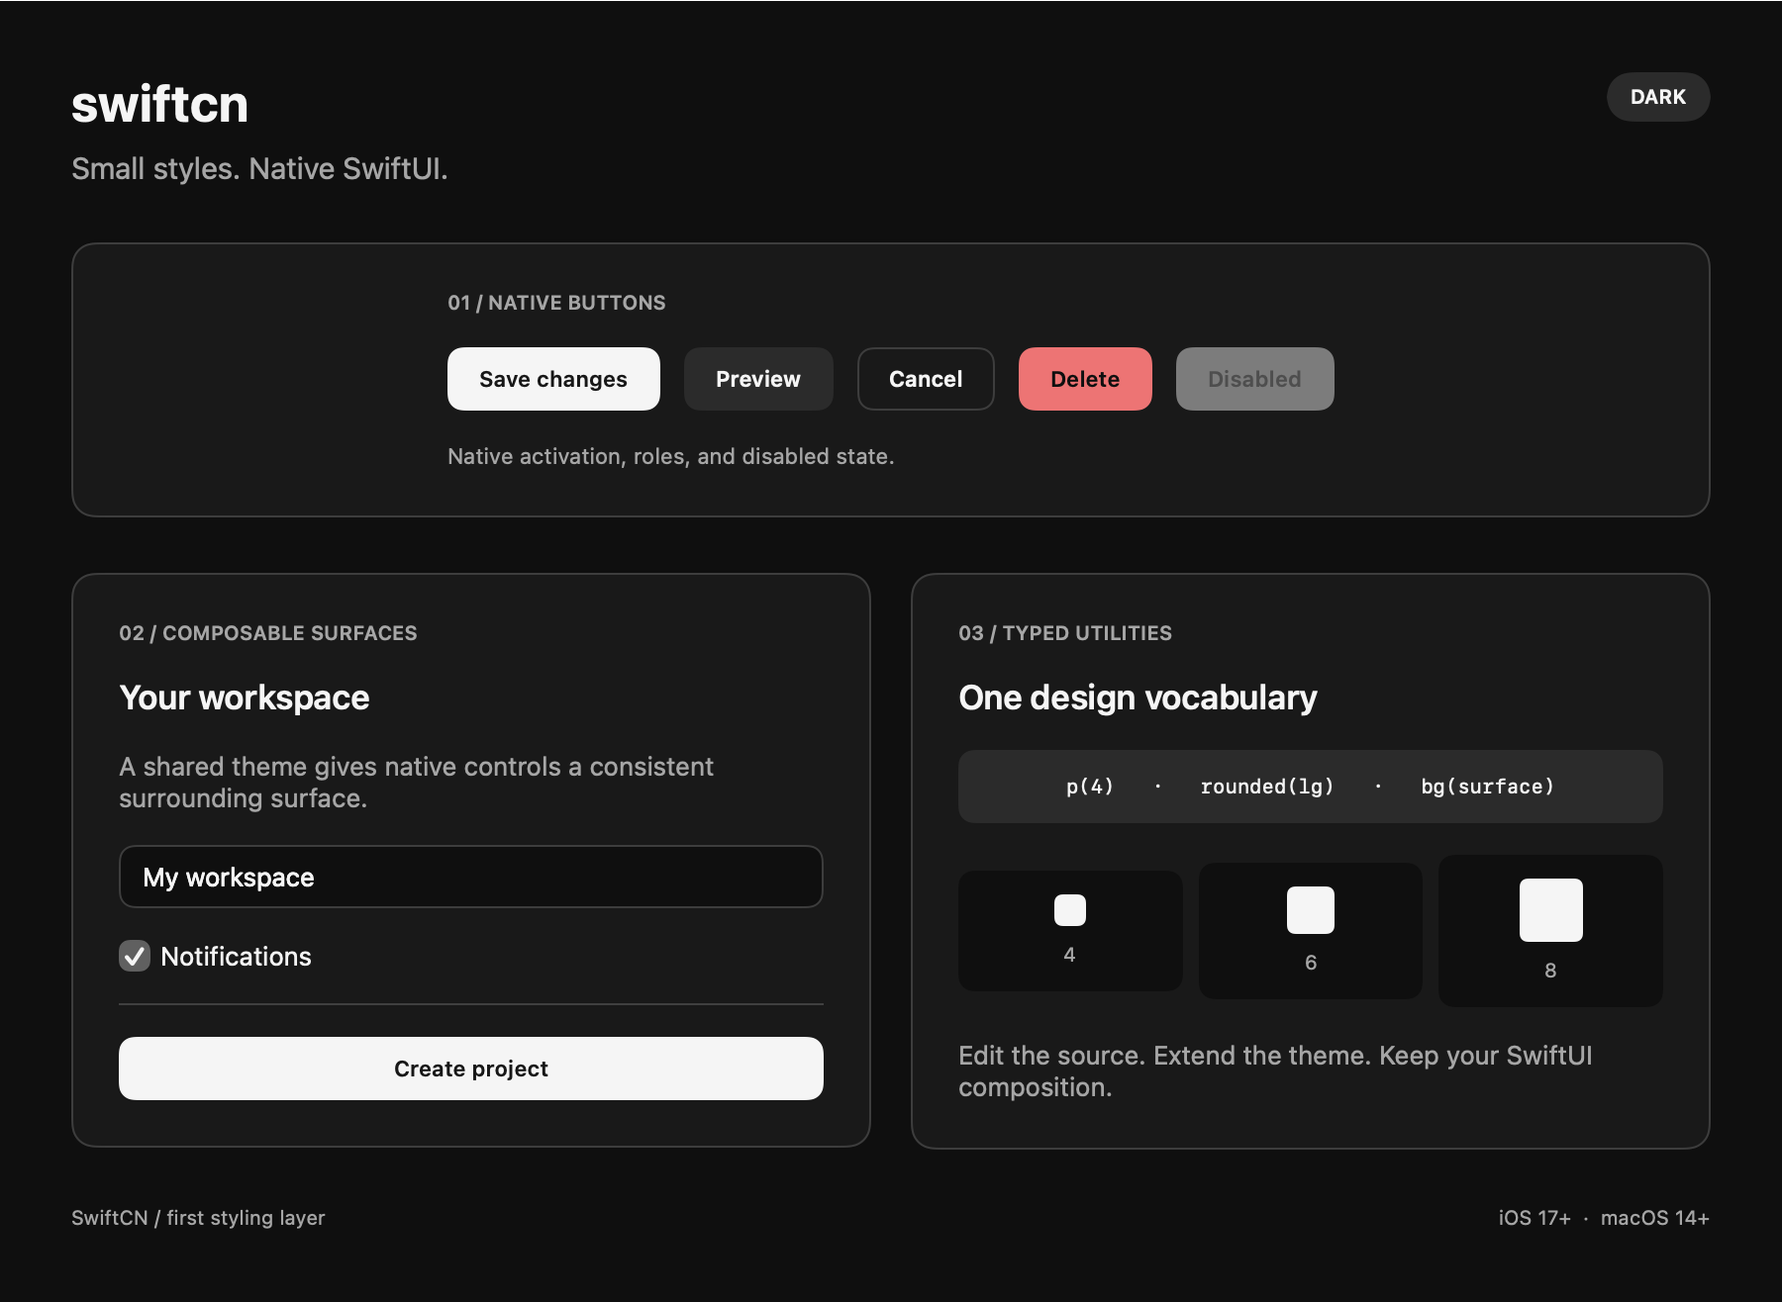
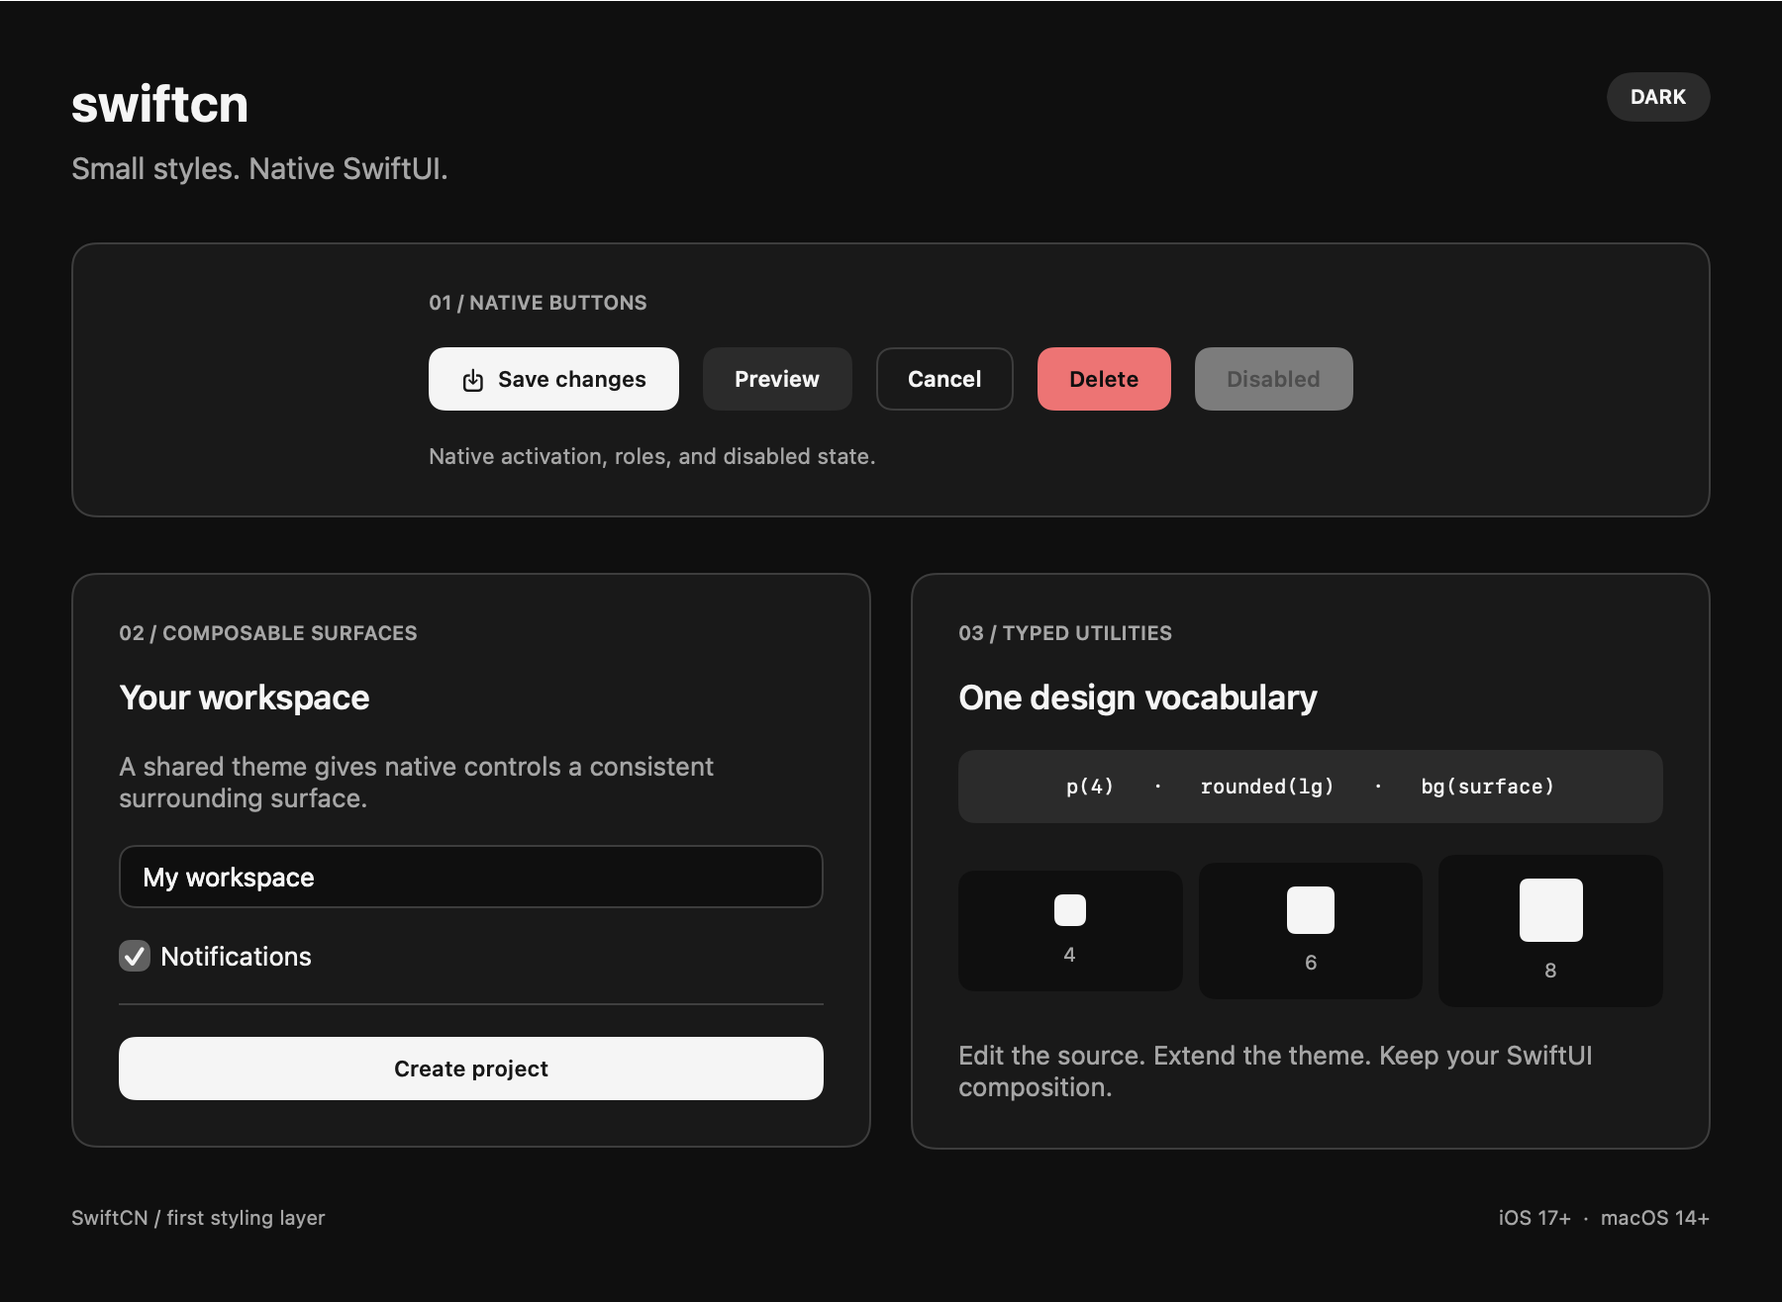
Add gentle native motion throughout the macOS demo

diff --git a/Examples/Catalog/Sources/SwiftCNCatalog/DemoView.swift b/Examples/Catalog/Sources/SwiftCNCatalog/DemoView.swift
@@ -42,10 +42,14 @@ struct MotionPlayground: View {
     @State private var delay = 0.0
     @State private var presses = 0
     @Environment(\.accessibilityReduceMotion) private var reduceMotion
+    private var motion = DemoMotion()
 
     private var motionClasses: String { "animate-\(preset) duration-\(Int(duration)) delay-\(Int(delay))" }
     private var surfaceClasses: String {
         "\(expanded ? "p-8 rounded-xl bg-primary text-primary-foreground" : "p-3 rounded-md bg-accent text-foreground") \(motionClasses)"
+    }
+    private var buttonClasses: String {
+        "button-primary active:opacity-80 hover:bg-accent hover:text-foreground \(motionClasses)"
     }
 
     var body: some View {
@@ -53,6 +57,7 @@ struct MotionPlayground: View {
             VStack(alignment: .leading, spacing: 24) {
                 DemoHeading(title: "Native motion, composed with strings",
                             subtitle: "Change state. SwiftUI animates the values that .tw owns.")
+                    .demoEntrance()
                 HStack(alignment: .top, spacing: 24) {
                     VStack(alignment: .leading, spacing: 20) {
                         Text("Animation settings").tw("text-lg font-semibold")
@@ -61,9 +66,9 @@ struct MotionPlayground: View {
                                 Text($0).tag($0)
                             }
                         }
-                        LabeledContent("Duration", value: "\(Int(duration)) ms")
+                        LabeledContent("Duration") { Text("\(Int(duration)) ms").demoNumber(Int(duration)) }
                         Slider(value: $duration, in: 100...1200, step: 50).accessibilityLabel("Duration")
-                        LabeledContent("Delay", value: "\(Int(delay)) ms")
+                        LabeledContent("Delay") { Text("\(Int(delay)) ms").demoNumber(Int(delay)) }
                         Slider(value: $delay, in: 0...500, step: 50).accessibilityLabel("Delay")
                         Toggle("Expanded", isOn: $expanded)
                         if reduceMotion {
@@ -73,30 +78,45 @@ struct MotionPlayground: View {
                     }
                     .frame(width: 260)
                     .tw("card")
+                    .demoEntrance(delay: 0.04)
 
                     VStack(alignment: .leading, spacing: 20) {
                         Text("State → native modifiers").tw("text-lg font-semibold")
                         ZStack {
-                            Text("Hello, SwiftUI")
-                                .tw(surfaceClasses)
+                            HStack(spacing: 8) {
+                                Image(systemName: "sparkles")
+                                    .symbolEffect(.bounce, options: .speed(1.4), value: expanded)
+                                    .symbolEffectsRemoved(!motion.isEnabled || preset == "none")
+                                    .accessibilityHidden(true)
+                                Text("Hello, SwiftUI")
+                            }
+                            .tw(surfaceClasses)
                         }
                         .frame(maxWidth: .infinity, minHeight: 180)
                         .tw("rounded-lg border")
                         Button(expanded ? "Collapse surface" : "Expand surface") { expanded.toggle() }
-                            .buttonStyle(.tw("button-outline"))
+                            .buttonStyle(.demo("button-outline animate-smooth duration-180"))
                         DemoCode(text: ".tw(\"\(surfaceClasses)\")")
                         Text("Press and hover") .tw("text-lg font-semibold")
                         HStack {
-                            Button("Press me") { presses += 1 }
-                                .buttonStyle(.tw("button-primary active:opacity-60 hover:bg-accent hover:text-foreground \(motionClasses)"))
-                            Text("\(presses) activations").tw("text-sm text-muted-foreground")
+                            Button { presses += 1 } label: {
+                                HStack(spacing: 6) {
+                                    Image(systemName: "hand.tap")
+                                        .symbolEffect(.bounce, options: .speed(1.5), value: presses)
+                                        .symbolEffectsRemoved(!motion.isEnabled || preset == "none")
+                                    Text("Press me")
+                                }
+                            }
+                            .buttonStyle(.demo(buttonClasses, feedback: preset != "none"))
+                            Text("\(presses) activations").tw("text-sm text-muted-foreground").demoNumber(presses)
                         }
-                        DemoCode(text: ".buttonStyle(.tw(\"button-primary active:opacity-60 \(motionClasses)\"))")
+                        DemoCode(text: ".buttonStyle(.tw(\"\(buttonClasses)\"))")
                         Text("The settle preset comes from a custom native spring in global rules.")
                             .tw("text-sm text-muted-foreground")
                     }
                     .frame(maxWidth: .infinity, alignment: .leading)
                     .tw("card")
+                    .demoEntrance(delay: 0.08)
                 }
             }
             .padding(32)
@@ -114,6 +134,7 @@ struct GlobalRulesPlayground: View {
     @State private var name = "My workspace"
     @State private var enabled = true
     @State private var saves = 0
+    private var motion = DemoMotion()
 
     private var customTheme: TWTheme {
         TWTheme(spacingUnit: spacing, colors: [.primary: palette.color])
@@ -126,6 +147,7 @@ struct GlobalRulesPlayground: View {
 
     private var rules: TWGlobalRules {
         TWGlobalRules(
+            view: "animate-smooth duration-220",
             button: "animate-snappy duration-200",
             named: [
                 "demo-card": validationError == nil ? .classes(cardClasses) : "p-6 rounded-lg border bg-surface",
@@ -139,13 +161,14 @@ struct GlobalRulesPlayground: View {
             VStack(alignment: .leading, spacing: 24) {
                 DemoHeading(title: "Your rules, across native views",
                             subtitle: "Edit shared classes, change the theme, and override one subtree.")
+                    .demoEntrance()
                 HStack(alignment: .top, spacing: 24) {
                     VStack(alignment: .leading, spacing: 20) {
                         Text("Global settings").tw("text-lg font-semibold")
                         Picker("Palette", selection: $palette) {
                             ForEach(DemoPalette.allCases) { item in Text(item.rawValue).tag(item) }
                         }
-                        LabeledContent("Spacing unit", value: "\(Int(spacing)) pt")
+                        LabeledContent("Spacing unit") { Text("\(Int(spacing)) pt").demoNumber(Int(spacing)) }
                         Slider(value: $spacing, in: 3...6, step: 1).accessibilityLabel("Spacing unit")
                         Toggle("Pill buttons", isOn: $pillButtons)
                         Toggle("Compact second card", isOn: $compactScope)
@@ -162,14 +185,24 @@ struct GlobalRulesPlayground: View {
                     }
                     .frame(width: 260)
                     .tw("card")
+                    .demoEntrance(delay: 0.04)
 
                     VStack(alignment: .leading, spacing: 20) {
                         VStack(alignment: .leading, spacing: 16) {
                             Text("Workspace").tw("text-xl font-semibold")
                             TextField("Workspace name", text: $name).textFieldStyle(.roundedBorder)
                             Toggle("Notifications", isOn: $enabled)
-                            Button("Save workspace") { saves += 1 }.buttonStyle(.tw("demo-button"))
-                            Text("Saved \(saves) times").tw("text-sm text-muted-foreground")
+                            Button { saves += 1 } label: {
+                                HStack(spacing: 6) {
+                                    Image(systemName: saves == 0 ? "square.and.arrow.down" : "checkmark.circle.fill")
+                                        .contentTransition(.symbolEffect(.replace))
+                                        .symbolEffect(.bounce, options: .speed(1.5), value: saves)
+                                        .symbolEffectsRemoved(!motion.isEnabled)
+                                    Text("Save workspace")
+                                }
+                            }
+                            .buttonStyle(.demo("demo-button"))
+                            Text("Saved \(saves) times").tw("text-sm text-muted-foreground").demoNumber(saves)
                         }
                         .frame(maxWidth: .infinity, alignment: .leading)
                         .tw("demo-card")
@@ -178,7 +211,7 @@ struct GlobalRulesPlayground: View {
                             Text("Scoped card").tw("text-lg font-semibold")
                             Text("This card has a local rule. The workspace card keeps the shared rule.")
                                 .tw("text-sm text-muted-foreground")
-                            Button("Native button") {}.buttonStyle(.tw("demo-button"))
+                            Button("Native button") {}.buttonStyle(.demo("demo-button"))
                         }
                         .frame(maxWidth: .infinity, alignment: .leading)
                         .tw("demo-card")
@@ -190,6 +223,8 @@ struct GlobalRulesPlayground: View {
                     .frame(maxWidth: .infinity, alignment: .leading)
                     .twTheme(customTheme)
                     .twRules(rules)
+                    .animation(motion.soft, value: compactScope)
+                    .demoEntrance(delay: 0.08)
                 }
             }
             .padding(32)
@@ -212,9 +247,22 @@ private enum DemoPalette: String, CaseIterable, Identifiable {
 private struct DemoHeading: View {
     let title: String
     let subtitle: String
+    private var motion = DemoMotion()
+
+    init(title: String, subtitle: String) {
+        self.title = title
+        self.subtitle = subtitle
+    }
+
     var body: some View {
         VStack(alignment: .leading, spacing: 8) {
-            Text(title).tw("text-2xl font-semibold")
+            HStack(spacing: 10) {
+                Image(systemName: "sparkles")
+                    .font(.title2)
+                    .symbolEffect(.pulse, options: .repeating.speed(0.3), isActive: motion.isEnabled)
+                    .accessibilityHidden(true)
+                Text(title).tw("text-2xl font-semibold")
+            }
             Text(subtitle).tw("text-base text-muted-foreground")
         }
     }

diff --git a/Examples/Catalog/Sources/SwiftCNCatalog/CatalogView.swift b/Examples/Catalog/Sources/SwiftCNCatalog/CatalogView.swift
@@ -8,6 +8,7 @@ struct CatalogView: View {
     @State private var projectName = "My workspace"
     @State private var saves = 0
     @FocusState private var fieldFocused: Bool
+    private var motion = DemoMotion()
 
     var body: some View {
         VStack(alignment: .leading, spacing: theme.space(7)) {
@@ -20,21 +21,32 @@ struct CatalogView: View {
                 Text(scheme == .dark ? "DARK" : "LIGHT")
                     .tw(.text(.xs), .weight(.semibold), .px(3), .py(1.5), .bg(.accent), .fg(.onAccent), .rounded(.full))
             }
+            .demoEntrance()
 
             VStack(alignment: .leading, spacing: theme.space(4)) {
                 sectionLabel("01 / NATIVE BUTTONS")
                 HStack(spacing: theme.space(3)) {
-                    Button("Save changes") { saves += 1 }
-                        .buttonStyle(.tw("button-primary animate-spring duration-180"))
-                    Button("Preview") {}.buttonStyle(.tw(.secondaryButton))
-                    Button("Cancel") {}.buttonStyle(.tw(.outlineButton))
-                    Button("Delete", role: .destructive) {}.buttonStyle(.tw(.destructiveButton))
-                    Button("Disabled") {}.buttonStyle(.tw(.primaryButton)).disabled(true)
+                    Button { saves += 1 } label: {
+                        HStack(spacing: 6) {
+                            Image(systemName: saves == 0 ? "square.and.arrow.down" : "checkmark.circle.fill")
+                                .contentTransition(.symbolEffect(.replace))
+                                .symbolEffect(.bounce, options: .speed(1.5), value: saves)
+                                .symbolEffectsRemoved(!motion.isEnabled)
+                            Text("Save changes")
+                        }
+                    }
+                    .buttonStyle(.demo("button-primary animate-spring duration-180"))
+                    Button("Preview") {}.buttonStyle(.demo(.secondaryButton))
+                    Button("Cancel") {}.buttonStyle(.demo(.outlineButton))
+                    Button("Delete", role: .destructive) {}.buttonStyle(.demo(.destructiveButton))
+                    Button("Disabled") {}.buttonStyle(.demo(.primaryButton)).disabled(true)
                 }
                 Text(saves == 0 ? "Native activation, roles, and disabled state." : "Saved \(saves) time(s).")
                     .tw(.text(.sm), .fg(.mutedForeground))
+                    .demoNumber(saves)
             }
             .tw(.card, .fullWidth)
+            .demoEntrance(delay: 0.04)
 
             HStack(alignment: .top, spacing: theme.space(5)) {
                 VStack(alignment: .leading, spacing: theme.space(4)) {
@@ -46,12 +58,14 @@ struct CatalogView: View {
                         .textFieldStyle(.plain)
                         .focused($fieldFocused)
                         .tw(.px(3), .py(2), .bg(.background), .border(.border), .rounded(.md),
-                            .focus(.border(.primary, width: 2)), state: .init(isFocused: fieldFocused))
+                            .focus(.border(.primary, width: 2)), .animation(.smooth), .duration(0.18),
+                            state: .init(isFocused: fieldFocused))
                     Toggle("Notifications", isOn: $notifications).tint(theme.color(.primary, scheme: scheme))
                     Divider()
-                    Button("Create project") { saves += 1 }.buttonStyle(.tw(.primaryButton, .fullWidth))
+                    Button("Create project") { saves += 1 }.buttonStyle(.demo(.primaryButton, .fullWidth))
                 }
                 .tw(.card, .fullWidth)
+                .demoEntrance(delay: 0.08)
 
                 VStack(alignment: .leading, spacing: theme.space(4)) {
                     sectionLabel("03 / TYPED UTILITIES")
@@ -68,6 +82,7 @@ struct CatalogView: View {
                         .tw(.text(.base), .fg(.mutedForeground))
                 }
                 .tw(.card, .fullWidth)
+                .demoEntrance(delay: 0.12)
             }
 
             HStack {

diff --git a/Examples/Catalog/Sources/SwiftCNCatalog/DemoMotion.swift b/Examples/Catalog/Sources/SwiftCNCatalog/DemoMotion.swift
@@ -1,0 +1,104 @@
+import SwiftUI
+import SwiftCN
+
+private struct DemoMotionEnabledKey: EnvironmentKey {
+    static let defaultValue = true
+}
+
+extension EnvironmentValues {
+    /// Static image exports disable demo effects while retaining their resting appearance.
+    var demoMotionEnabled: Bool {
+        get { self[DemoMotionEnabledKey.self] }
+        set { self[DemoMotionEnabledKey.self] = newValue }
+    }
+}
+
+struct DemoMotion: DynamicProperty {
+    @Environment(\.accessibilityReduceMotion) private var reduceMotion
+    @Environment(\.demoMotionEnabled) private var enabled
+    var isEnabled: Bool { enabled && !reduceMotion }
+    var soft: Animation? { isEnabled ? .smooth(duration: 0.24) : nil }
+    var feedback: Animation? { isEnabled ? .spring(duration: 0.2, bounce: 0.12) : nil }
+}
+
+extension View {
+    func demoEntrance(delay: Double = 0) -> some View { modifier(DemoEntrance(delay: delay)) }
+    func demoNumber(_ value: Int) -> some View { modifier(DemoNumber(value: value)) }
+}
+
+private struct DemoEntrance: ViewModifier {
+    let delay: Double
+    private var motion = DemoMotion()
+    @State private var appeared = false
+
+    init(delay: Double) { self.delay = delay }
+
+    func body(content: Content) -> some View {
+        content
+            .opacity(appeared || !motion.isEnabled ? 1 : 0)
+            .offset(y: appeared || !motion.isEnabled ? 0 : 6)
+            .animation(motion.soft?.delay(delay), value: appeared)
+            .onAppear { appeared = true }
+            .onDisappear { appeared = false }
+    }
+}
+
+private struct DemoNumber: ViewModifier {
+    let value: Int
+    private var motion = DemoMotion()
+
+    init(value: Int) { self.value = value }
+
+    func body(content: Content) -> some View {
+        content
+            .monospacedDigit()
+            .contentTransition(motion.isEnabled ? .numericText(value: Double(value)) : .identity)
+            .animation(motion.soft, value: value)
+    }
+}
+
+/// The native button configuration still supplies press state and activation.
+struct DemoButtonStyle: ButtonStyle {
+    let base: TWButtonStyle
+    var feedbackEnabled = true
+
+    func makeBody(configuration: Configuration) -> some View {
+        DemoButtonBody(base: base, configuration: configuration, feedbackEnabled: feedbackEnabled)
+    }
+}
+
+private struct DemoButtonBody: View {
+    let base: TWButtonStyle
+    let configuration: ButtonStyleConfiguration
+    let feedbackEnabled: Bool
+    private var motion = DemoMotion()
+    @Environment(\.isEnabled) private var isEnabled
+    @State private var hovered = false
+
+    init(base: TWButtonStyle, configuration: ButtonStyleConfiguration, feedbackEnabled: Bool) {
+        self.base = base
+        self.configuration = configuration
+        self.feedbackEnabled = feedbackEnabled
+    }
+
+    private var moves: Bool { motion.isEnabled && isEnabled && feedbackEnabled }
+
+    var body: some View {
+        base.makeBody(configuration: configuration)
+            .scaleEffect(moves ? (configuration.isPressed ? 0.98 : hovered ? 1.008 : 1) : 1)
+            .offset(y: moves && hovered && !configuration.isPressed ? -0.75 : 0)
+            .animation(moves ? motion.feedback : nil, value: configuration.isPressed)
+            .animation(moves ? motion.soft : nil, value: hovered)
+            .onHover { hovered = $0 }
+    }
+}
+
+extension ButtonStyle where Self == DemoButtonStyle {
+    static func demo(_ classes: String, feedback: Bool = true) -> DemoButtonStyle {
+        DemoButtonStyle(base: TWButtonStyle(classes), feedbackEnabled: feedback)
+    }
+
+    static func demo(_ styles: TWStyle...) -> DemoButtonStyle {
+        DemoButtonStyle(base: TWButtonStyle(TWStyle(styles)))
+    }
+}

diff --git a/Examples/Catalog/Sources/SwiftCNCatalog/CatalogMain.swift b/Examples/Catalog/Sources/SwiftCNCatalog/CatalogMain.swift
@@ -12,7 +12,9 @@ struct CatalogLauncher {
             NSApplication.shared.setActivationPolicy(.prohibited)
             for scheme in [ColorScheme.light, .dark] {
                 // A native host also captures AppKit-backed controls such as TextField.
-                let host = NSHostingView(rootView: CatalogView().environment(\.colorScheme, scheme))
+                let host = NSHostingView(rootView: CatalogView()
+                    .environment(\.demoMotionEnabled, false)
+                    .environment(\.colorScheme, scheme))
                 host.appearance = NSAppearance(named: scheme == .dark ? .darkAqua : .aqua)
                 host.setFrameSize(host.fittingSize)
                 let window = NSWindow(contentRect: host.bounds, styleMask: [.borderless], backing: .buffered, defer: false)

diff --git a/README.md b/README.md
@@ -303,6 +303,9 @@ Change animation presets and timing while toggling the styled surface.
 Edit shared classes, palettes, spacing, and subtree overrides in the global rules playground.
 The appearance picker selects system, light, or dark mode.
 
+The demo adds gentle entrances, hover and press feedback, animated counters, and native symbol effects.
+These effects respect Reduce Motion. Static image exports disable the demo effects.
+
 Run the executable directly with `swift run --package-path Examples/Catalog SwiftCNCatalog`.
 
 Render light and dark catalog images:
